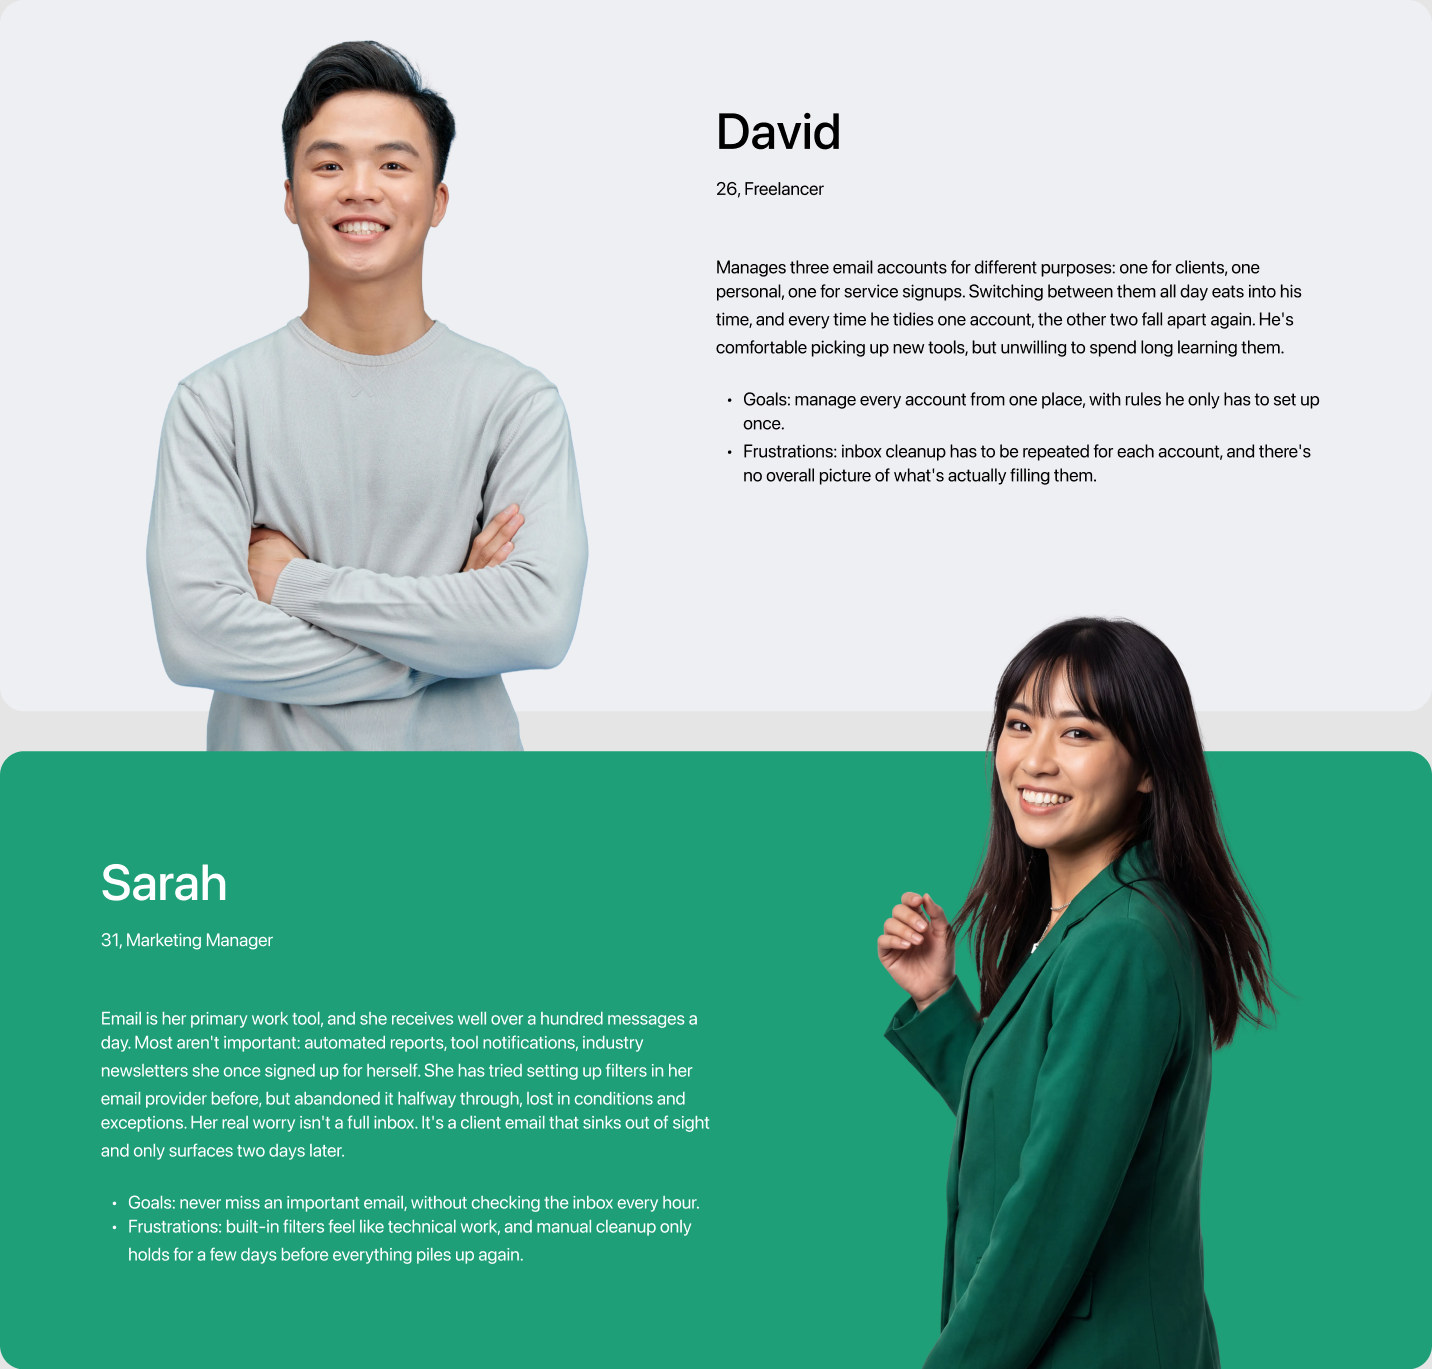
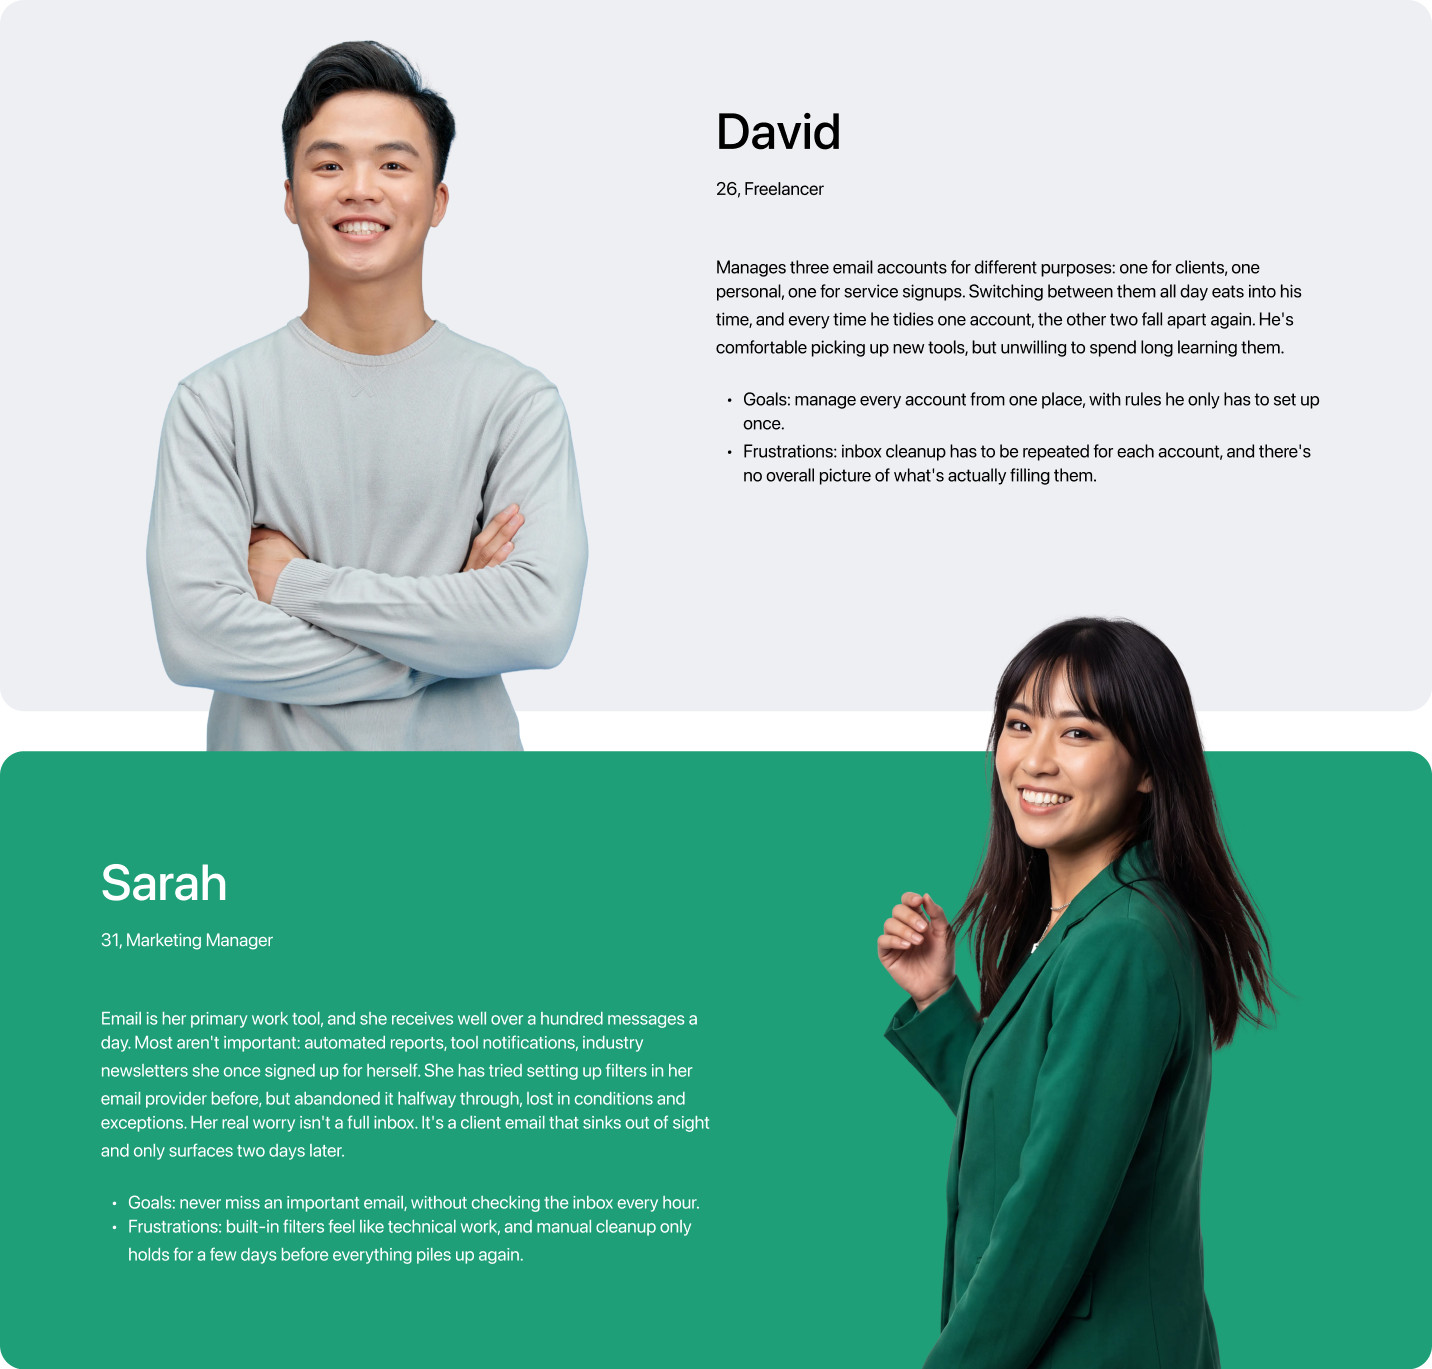
Retake the narrow persona asset from its revision
1152:54267 was redrawn: both cards are rounded now, and the frame carries a
white fill where it carried none. That fill settles what the asset had to
work around before -- Figma pads an unfilled frame with #E5E5E5 on export,
so the grey was being cleared back to transparency and the asset kept as a
PNG to hold it. The export is opaque, so it is a JPEG again, 250K where the
PNG was 848K.

Desktop is untouched: 1440 still takes the wide drawing at 1.077, and only
tablet and phone take this one at 1.046.

diff --git a/src/data/stories/emailAction.js b/src/data/stories/emailAction.js
@@ -62,6 +62,11 @@ const at = (x, y, w, h, cell) => ({ ...cell, x, y, w, h })
 // A picture the design draws twice, once for each frame: the wide asset, and
 // the one that replaces it below desktop. The narrow one is its own drawing
 // rather than the same artwork reflowed, so it carries its own size.
+//
+// 1152:54267 used to have no fill, which Figma pads with #E5E5E5 on export --
+// the grey had to be cleared back to transparency, and the asset kept as a
+// PNG for it. The frame carries its own white now, and rounds the corners of
+// both cards, so it comes across opaque and is a JPEG again.
 const withCompact = (cell, src, w, h) => ({ ...cell, compact: { src, w, h } })
 
 export default [
